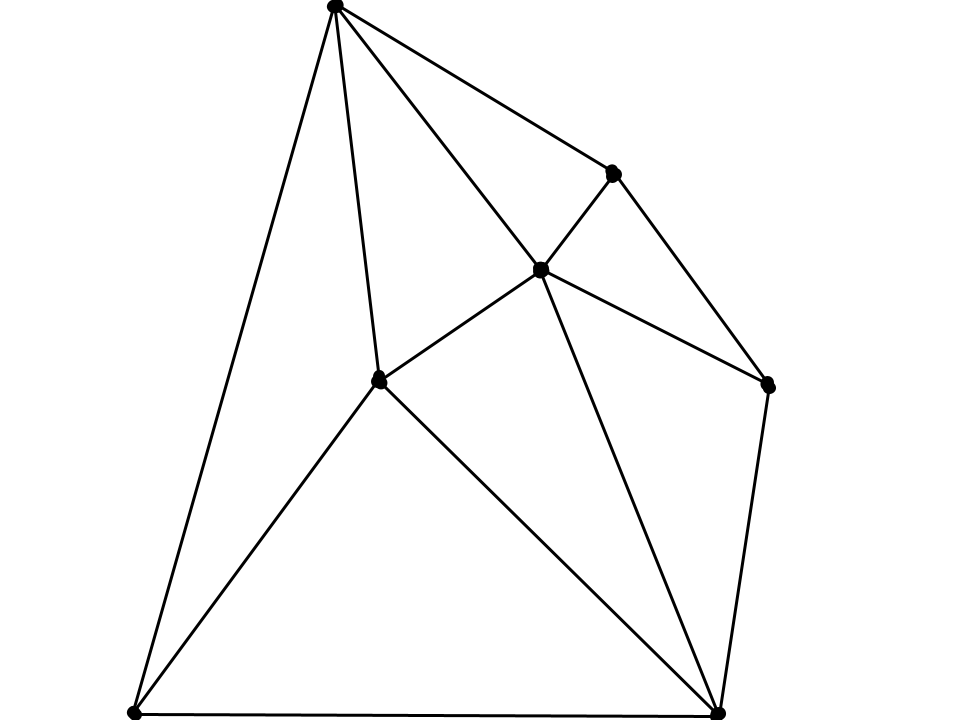
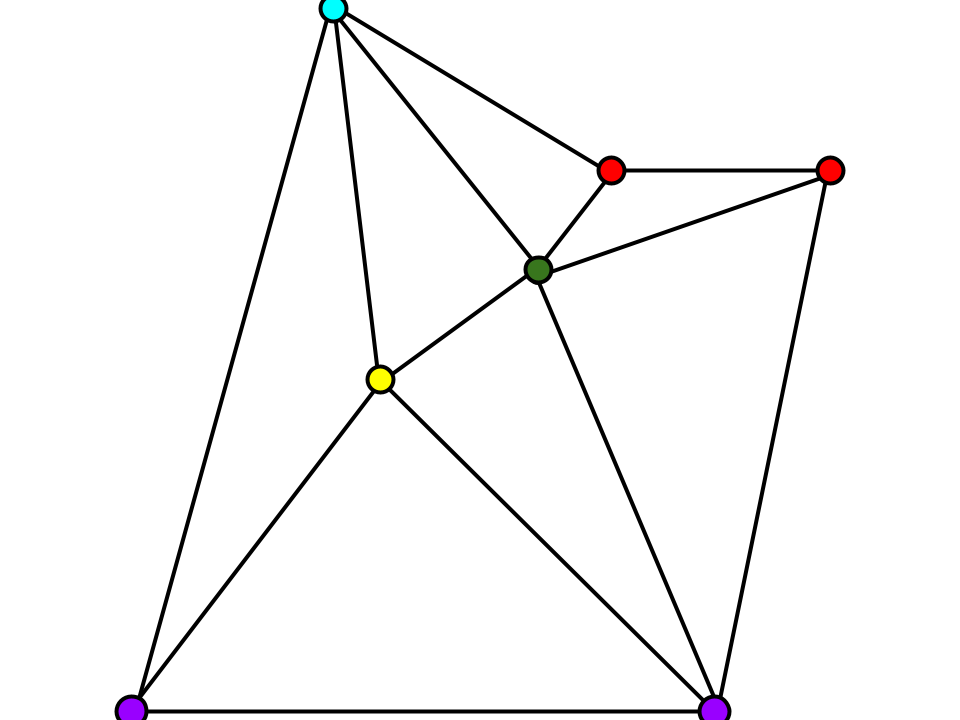
More edits

diff --git a/docs/source/trend_lines.rst b/docs/source/trend_lines.rst
@@ -25,24 +25,24 @@ The following sections provide details on the different parameters exposed in th
 Data Selection
 ^^^^^^^^^^^^^^
 
- - **Object**: Select the target ``Points`` or ``Curve`` object from the dropdown list.
- - **Data**: [Optional] Referenced data defining properties to link with segments. If omitted, the segments will be created from vertices alone.
+- **Object**: Select the target ``Points`` or ``Curve`` object from the dropdown list.
+- **Data**: [Optional] Referenced data defining properties to link with segments. If omitted, the segments will be created from vertices alone.
 
 .. _filters:
 
 Connection Filters
 ^^^^^^^^^^^^^^^^^^
- - **Parts**: [Optional] Referenced data defining the unique parts of the object. Connections between vertices belonging to the same part are ignored.
- - **Minimum edges**: Minimum number of segments for a trend line to be valid.
- - **Maximum distance**: Maximum distance between two points to consider for trend line detection.
- - **Damping factor**: Threshold parameter [0, 1] penalizing changes in direction between connected segments.
-    At 0, the direction change is not penalized, and at 1, the direction change is maximally penalized.
+- **Parts**: [Optional] Referenced data defining the unique parts of the object. Connections between vertices belonging to the same part are ignored.
+- **Minimum edges**: Minimum number of segments for a trend line to be valid.
+- **Maximum distance**: Maximum distance between two points to consider for trend line detection.
+- **Damping factor**: Threshold parameter [0, 1] penalizing changes in direction between connected segments.
+   At 0, the direction change is not penalized, and at 1, the direction change is maximally penalized.
 
 
 Orientation Filter
 ^^^^^^^^^^^^^^^^^^
- - **Azimuth**: Filtering of segments orientation based on the azimuth angle.
- - **Tolerance**: Tolerance on deviation of segments orientation from the reference azimuth angle.
+- **Azimuth**: Filtering of segments orientation based on the azimuth angle.
+- **Tolerance**: Tolerance on deviation of segments orientation from the reference azimuth angle.
 
 Methodology
 -----------
@@ -56,6 +56,8 @@ The conversion from scatter point data to trend lines is achieved by the followi
             :align: center
             :width: 300
 
+    The figure above shows the initial edges connecting the vertices. The color represents the optional ``Parts`` identifier used for filtering (see Step 2).
+
 2. Connections get filtered out based on:
     - Connection too long, defined by the ``Maximum distance`` parameter
     - Segments connecting vertices on the same part, as defined by the ``Parts`` data.
@@ -65,7 +67,7 @@ The conversion from scatter point data to trend lines is achieved by the followi
             :align: center
             :width: 300
 
-   The remaining edges move forward to the detection step.
+   In the example above, the black dash edge is filtered out based on the maximum distance parameter, while the colored dash lines are filtered out based on the parts data. The remaining edges move forward to the detection step.
 
 3. The remaining edges are visited exhaustively to find the neighbouring connection that minimizes the tortuosity (:math:`\delta`) of the path.
 
@@ -73,7 +75,7 @@ The conversion from scatter point data to trend lines is achieved by the followi
         :align: center
         :width: 300
 
-        This process is repeated recursively until there is no valid neighbouring edge to form a connection with. The metric used to evaluate the tortuosity is expressed as follows:
+    The metric used to evaluate the tortuosity is expressed as follows:
 
     .. math::
 
@@ -83,25 +85,32 @@ The conversion from scatter point data to trend lines is achieved by the followi
     The path is updated with the connection with the lowest :math:`\delta` value.  Note that for
     :math:`\alpha=1`, only the length of the outgoing segments are considered. This generally increases the number of connections on a trend line, but the path may be more erratic.
 
+    This process is repeated recursively until there is no valid neighbouring edge to form a connection with.
+
 
 Example
 -------
 
 This section demonstrates the effect of various detection parameters on a training dataset provided `here <https://github.com/MiraGeoscience/curve-apps/tree/main/edge_detection-assets>`__.
-The goal is to extract trend lines from anomaly picks assigned to a ``Curve`` object. We begin with default parameters and then explore the effect of changing each parameter independently.
+
+.. figure:: ./images/trend_lines/example_data.png
+    :align: center
+    :width: 300
+
+
+The goal is to extract trend lines from anomaly picks assigned to a ``Curve`` object.
+We begin with default parameters and then explore the effect of changing each parameter independently. We know that the
+trend lines should connect across the flight lines and not change direction too rapidly.
+We can use the ``Line ID`` as the ``Parts`` data to filter out connections that should not be considered.
 
 .. list-table::
-   :widths: 25 25 25
+   :widths: 25 25
    :header-rows: 1
 
-   * - Input data
-     - Default parameters
+   * - Default parameters
      - Result
 
-   * - .. figure:: ./images/trend_lines/example_data.png
-            :align: center
-            :width: 300
-     - .. figure:: ./images/trend_lines/trend_lines_ui.png
+   * - .. figure:: ./images/trend_lines/trend_lines_ui.png
             :align: center
             :width: 300
      - .. figure:: ./images/trend_lines/example_no_filter.png
@@ -109,7 +118,9 @@ The goal is to extract trend lines from anomaly picks assigned to a ``Curve`` ob
             :width: 300
 
 Note the we have recovered line paths that connect our input data, but many of those segments are not desirable. They are either
-connecting points that are too far apart or allowed to change direction rapidly. We can improve the results by adjusting the parameters.
+connecting points that are too far apart or allowed to change direction rapidly.
+
+We can improve the results by adjusting the ``Maximum distance`` and ``Damping factor`` parameters.
 
 .. list-table::
    :widths: 25 25

diff --git a/docs/source/getting_started.rst b/docs/source/getting_started.rst
@@ -35,10 +35,10 @@ Preferably uncheck that box if you already have Python 3 installed on your syste
     it also installs packages from the conda-forge repository by default,
     which has no restriction for commercial use, while both Miniconda and Anaconda distributions use
     the Anaconda repository by default: see `Anaconda Terms of Service <https://www.anaconda.com/terms-of-service>`_ for details.
-    In any case, the installation of **octree-creation** forces the usage of the conda-forge repository,
+    In any case, the installation of **curve-apps** forces the usage of the conda-forge repository,
     and is thus not affected by the Anaconda Terms of Service.
 
-Download the latest octree-creation
+Download the latest curve-apps
 ~~~~~~~~~~~~~~~~~~~~~~~~~~~~~~~~~~~
 
 Follow this link to `download from the GitHub repository <https://github.com/MiraGeoscience/curve-apps/archive/refs/heads/main.zip>`_.
@@ -56,7 +56,7 @@ Extract the package to your drive, preferably an SSD if available.
 Run ``Install_or_Update.bat``
 ~~~~~~~~~~~~~~~~~~~~~~~~~~~~~
 
-The same batch file can be used to install or update **octree-creation**.
+The same batch file can be used to install or update **curve-apps**.
 A conda environment named ``curve_apps`` will be created to prevent conflicts with other software that may rely on Python.
 
 .. figure:: /images/getting_started/install_or_update.png
